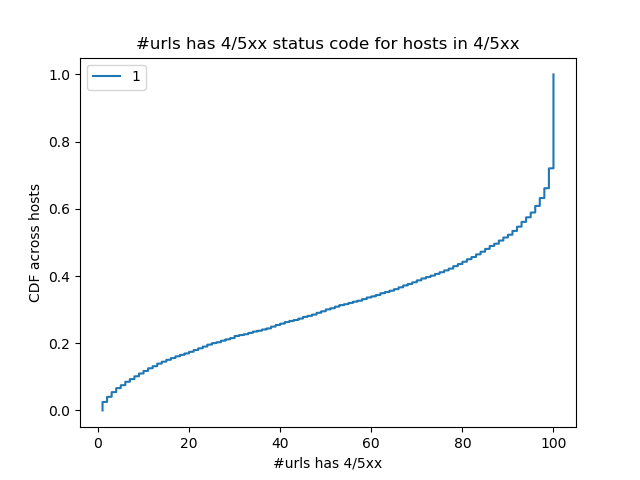
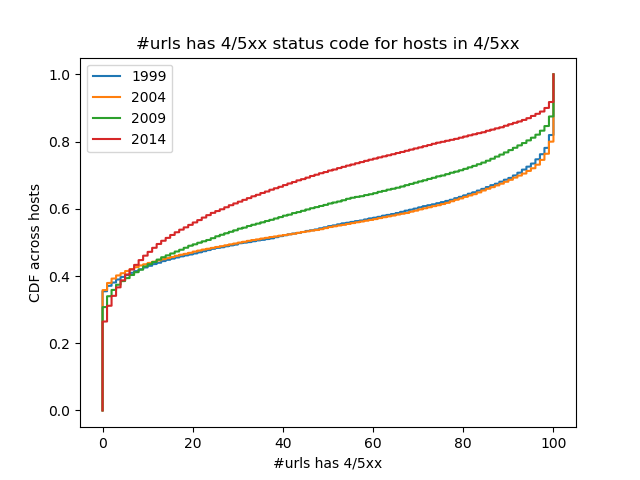
Update some figures

diff --git a/broken_pages/plot.py b/broken_pages/plot.py
@@ -1,0 +1,50 @@
+from matplotlib import pyplot as plt
+import sys
+from pymongo import MongoClient
+import re
+
+sys.path.append('../')
+from utils import plot
+import config 
+
+db = MongoClient(config.MONGO_HOSTNAME).web_decay
+
+def frac_45xx_links():
+    years = [1999, 2004, 2009, 2014]
+    missing_counts = []
+    for year in years:
+        missing_count = []
+        hosts = db.url_status_consec.aggregate([
+            {"$match": {"year": year}},
+            {"$group": {"_id": "$hostname"}}
+        ])
+        for host in hosts:
+            count = db.url_status_consec.count_documents({"year": year, "hostname": host['_id'], "status": re.compile('^[45]')})
+            missing_count.append(count)
+        missing_counts.append(missing_count)
+    plot.plot_CDF(missing_counts, classname=[str(y) for y in years], show=False)
+    plt.xlabel("#urls has 4/5xx")
+    plt.ylabel("CDF across hosts")
+    plt.title("#urls has 4/5xx status code")
+    plt.savefig('fig/45xx_frac_consec.png')
+
+def frac_DNS_links():
+    years = [1999, 2004, 2009, 2014]
+    missing_counts = []
+    for year in years:
+        missing_count = []
+        hosts = db.url_status.aggregate([
+            {"$match": {"year": year}},
+            {"$group": {"_id": "$hostname"}}
+        ])
+        for host in hosts:
+            count = db.url_status.count_documents({"year": year, "hostname": host['_id'], "status": re.compile('DNSError')})
+            missing_count.append(count)
+        missing_counts.append(missing_count)
+    plot.plot_CDF(missing_counts, classname=[str(y) for y in years], show=False)
+    plt.xlabel("#urls has DNSError")
+    plt.ylabel("CDF across hosts")
+    plt.title("#urls has DNSError")
+    plt.savefig('fig/dns_frac.png')
+
+frac_DNS_links()

diff --git a/broken_pages/counts.py b/broken_pages/counts.py
@@ -226,19 +226,6 @@ def other_error():
     json.dump(hosts, open('other_error.json', 'w+'))
 
 
-def frac_45xx_links():
-    missing_count = db.url_status.aggregate([
-        {"$match": {"year": year, "status": re.compile("^[45]")}},
-        {"$group": {"_id": "$hostname", "total": {"$sum": 1}}},
-        {"$sort": {"total": 1}}
-    ])
-    missing_count = list([m['total'] for m in missing_count])
-    plot.plot_CDF([missing_count], show=False)
-    plt.xlabel("#urls has 4/5xx")
-    plt.ylabel("CDF across hosts")
-    plt.title("#urls has 4/5xx status code for hosts in 4/5xx")
-    plt.savefig('fig/45xx_frac.png')
-
 
 def ping_error_detail():
     """

diff --git a/broken_pages/check_broken.py b/broken_pages/check_broken.py
@@ -21,7 +21,7 @@ import config
 from utils import db_utils, url_utils
 
 db = MongoClient(config.MONGO_HOSTNAME).web_decay
-year = 1999
+year = 2019
 NUM_THREADS = 10
 counter = 0
 
@@ -310,5 +310,4 @@ def dns_more_host_investigation():
         t.join()
     json.dump(host_status, open('dns_host.json', 'w+'))
 
-
-dns_more_host_investigation()
+collect_status()

diff --git a/search/check.py b/search/check.py
@@ -171,7 +171,7 @@ def extract_content():
 
 
 def metadata_search():
-    for i, url in enumerate(db.test_search.find()):
+    for i, url in enumerate(list(db.test_search.find())):
         top, title = url['topN'], url['titleMatch']
         print(i, url['url'])
         if db.test_metadata_search.find_one({"from": url['url']}): continue

diff --git a/rw_sampling/host_year.py b/rw_sampling/host_year.py
@@ -21,7 +21,7 @@ import config
 
 hosts = ['lions', 'pistons', 'wolverines', 'redwings']
 db = MongoClient(config.MONGO_HOSTNAME).web_decay
-proxies = config.PROXIES[3]
+proxies = config.PROXIES[1]
 year = 2019
 
 metadata = json.load(open('hosts_year_10k.json', 'r'))
